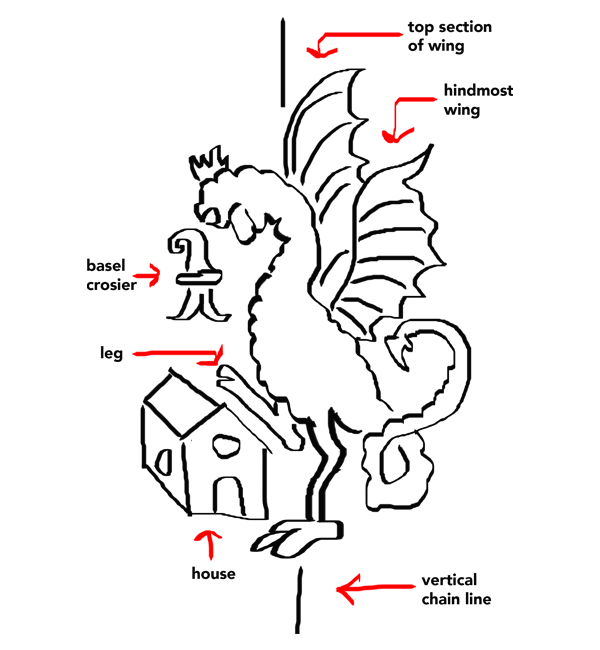
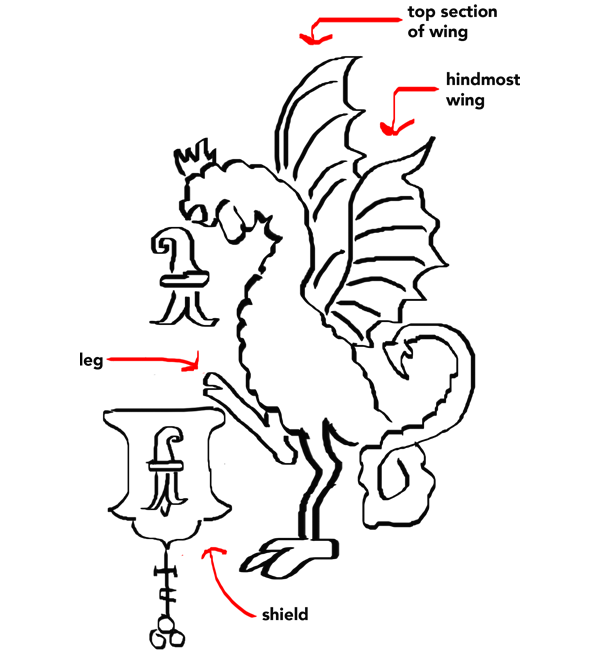
Basilisk Glossary - new sketch

Changed region(s): [[0.12, 0.0, 0.87, 1.0], [0.54, 0.8615, 0.81, 0.9538]]

diff --git a/_pages/basilisk/chainline_vertical.html b/_pages/basilisk/chainline_vertical.html
@@ -1,6 +1,6 @@
 ---
 layout: question
-question: Are the <glossary>chain lines vertical</glossary> when the basilisk is right side up?
+question: Are the chain lines vertical when the basilisk is right side up?
 parent: index
 if-yes: center_chainline
 if-no: Eaa

diff --git a/_pages/basilisk/object_shield.html b/_pages/basilisk/object_shield.html
@@ -1,6 +1,6 @@
 ---
 layout: question
-question: Is the object next to the basilisk a shield?
+question: Is the object next to the basilisk a <glossary>shield</glossary>?
 parent: center_chainline
 if-yes: one_foot_chainline
 if-no: basel_crosier_open

diff --git a/_pages/basilisk/basel_crosier_open.html b/_pages/basilisk/basel_crosier_open.html
@@ -1,6 +1,6 @@
 ---
 layout: question
-question: Is the top section of the wing wide (as opposed to skinny)?
+question: Is the <glossary>top section of the wing</glossary> wide (as opposed to skinny)?
 parent: object_shield
 if-yes: A2aa
 if-no: A2ab
